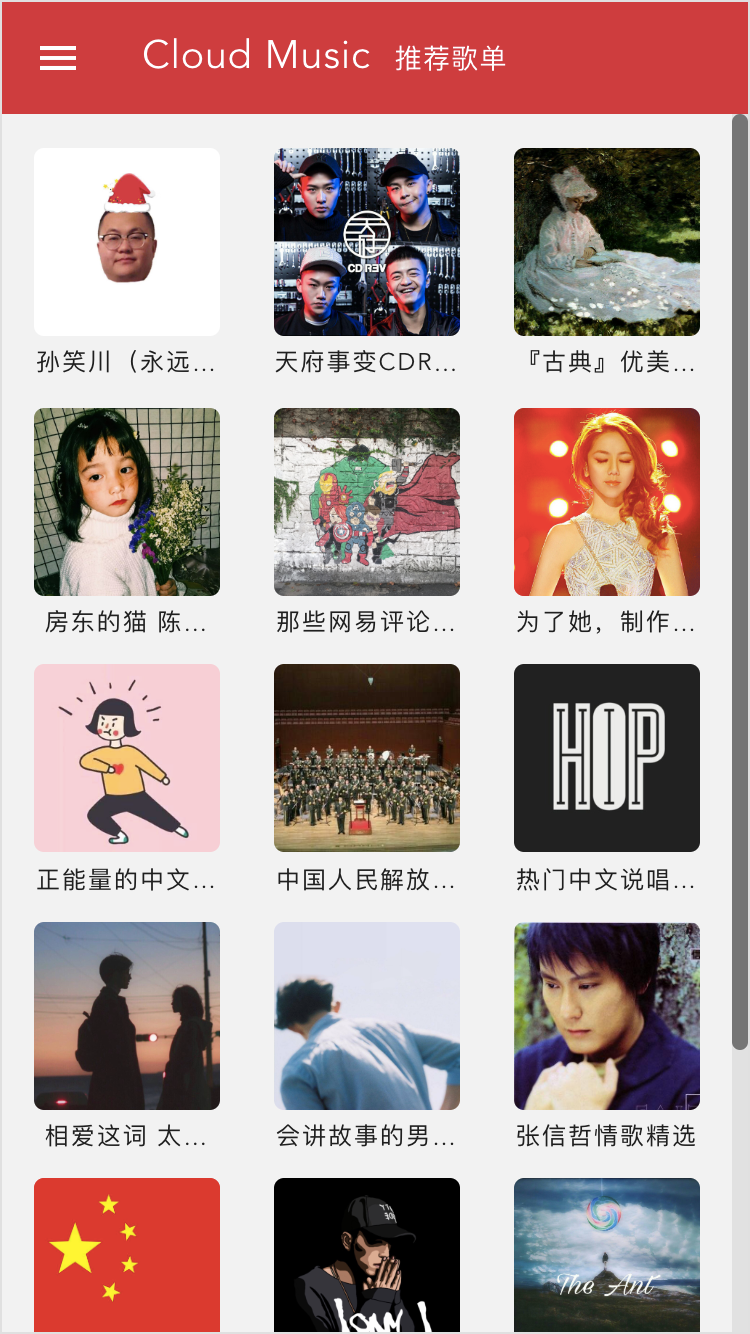
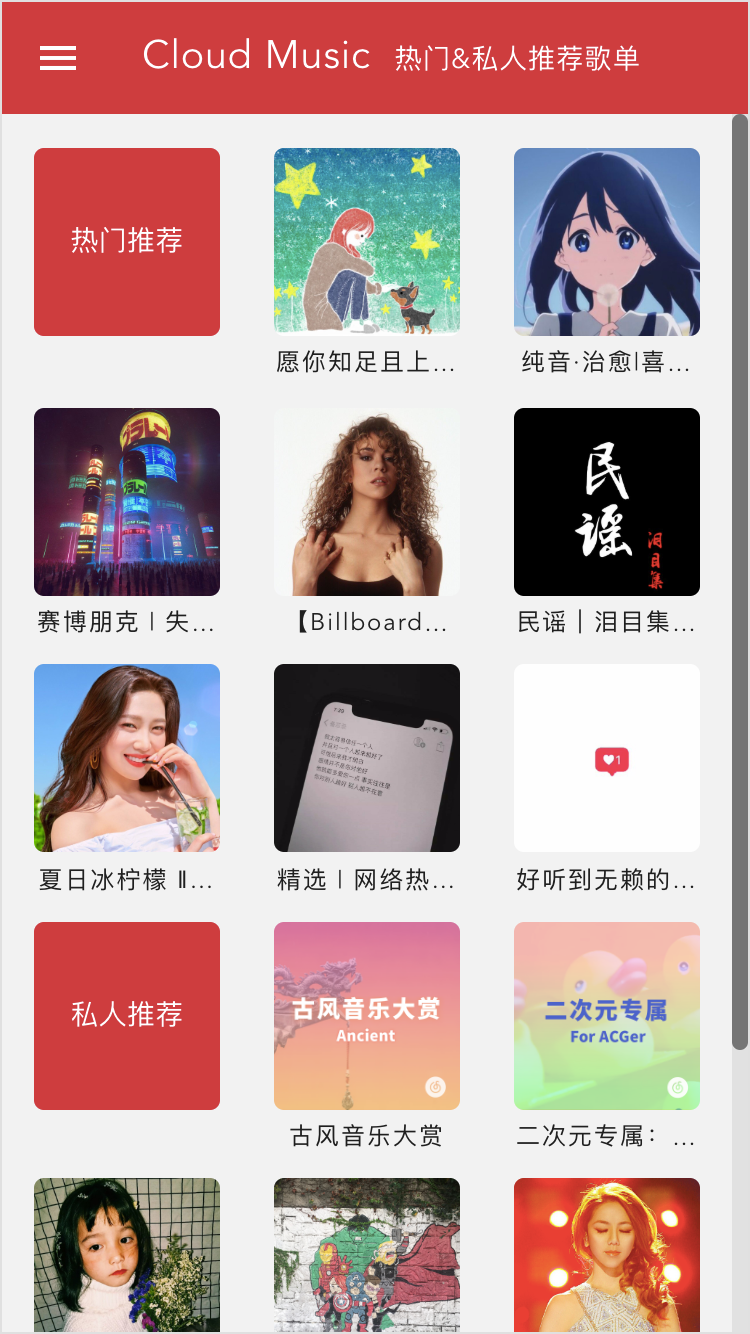
update home view

diff --git a/src/views/PlaylistDetail.vue b/src/views/PlaylistDetail.vue
@@ -1,29 +1,37 @@
 <template>
   <div class="playlist-detail">
     <div class="md-content">
-      <div class="md-content playlist-info">
-        <img
-          class="playlist-cover-img"
-          :src="picPath">
-        <div class="md-content playlist-info-text">
-          <span class="playlist-name">{{playlistName}}</span>
-          <span class="playlist-creator">{{playlistCreator}}</span>
-          <div class="md-content sub-comment-share">
-            <div class="md-content sub-comment-share-item">
-              <md-icon>mode_comment</md-icon>
-              <span>{{commentCount}}</span>
-            </div>
-            <div class="md-content sub-comment-share-item">
-              <md-icon>share</md-icon>
-              <span>{{shareCount}}</span>
-            </div>
-            <div class="md-content sub-comment-share-item">
-              <md-icon>favorite</md-icon>
-              <span>{{subscribedCount}}</span>
+      <div class="md-content playlist-info" style="flex-direction:column">
+        <div class="md-content" style="display:flex">
+          <img
+            class="playlist-cover-img"
+            :src="picPath">
+          <div class="md-content playlist-info-text">
+            <span class="playlist-name">{{playlistName}}</span>
+            <span class="playlist-creator">{{playlistCreator}}</span>
+            <div class="md-content sub-comment-share">
+              <div class="md-content sub-comment-share-item">
+                <md-icon>mode_comment</md-icon>
+                <span>{{commentCount}}</span>
+              </div>
+              <div class="md-content sub-comment-share-item">
+                <md-icon>share</md-icon>
+                <span>{{shareCount}}</span>
+              </div>
+              <div class="md-content sub-comment-share-item">
+                <md-icon>favorite</md-icon>
+                <span>{{subscribedCount}}</span>
+              </div>
             </div>
           </div>
         </div>
+        <div class="md-content div-playlist-description">
+          <span class="playlist-description">
+            {{description}}
+          </span>
+        </div>
       </div>
+      <md-divider style="margin-bottom:2vw"></md-divider>
       <div class="md-content playlist-content">
         <div v-for="song in songs" :key="song.id">
           <div>{{song.name}}</div>
@@ -36,14 +44,12 @@
 const imgPlaceholder = require('../assets/img_placeholder.png');
 
 const CheckCount = (count) => {
-  console.log(count);
   let rtn;
   if (count <= 1e5 - 1) {
     rtn = count;
   } else if (count > 1e5 - 1 && count <= 1e9 - 1) {
     rtn = `${parseInt(count / 1e4, 10)}万`;
   } else rtn = `${parseInt(count / 1e8, 10)}亿`;
-  console.log(rtn);
   return rtn;
 };
 
@@ -59,6 +65,7 @@ export default {
       songs: null,
       commentCount: null,
       subscribedCount: null,
+      description: null,
     };
   },
   created() {
@@ -66,12 +73,12 @@ export default {
     this.fetchPlaylistDetail(this.id)
       .then((res) => {
         this.songs = res.data.result.tracks;
-        console.log(this.songs);
         this.playlistName = res.data.result.name;
         this.playlistCreator = res.data.result.creator.nickname;
         this.commentCount = CheckCount(res.data.result.commentCount);
         this.shareCount = CheckCount(res.data.result.shareCount);
         this.subscribedCount = CheckCount(res.data.result.subscribedCount);
+        this.description = res.data.result.description;
         this.$store.dispatch('setPageTitle', this.playlistName);
         this.picPath = res.data.result.coverImgUrl;
       });
@@ -92,14 +99,15 @@ export default {
 <style lang="scss" scoped>
 .playlist-detail {
   background-color: #F2F2F2;
+  height: initial;
+  min-height: 100%;
 }
 .playlist-info {
   height: 60vw;
-  min-height: 240px;
+  min-height: 200px;
   max-height: 300px;
   display: flex;
   flex-direction: row;
-  // align-content: space-around;
 }
 .playlist-cover-img {
   width: 45vw;
@@ -108,7 +116,7 @@ export default {
   min-height: 75px;
   max-width: 200px;
   max-height: 200px;
-  margin: 5vw;
+  margin: 5vw 5vw 0 5vw;
   border-radius: 2vw;
 }
 .playlist-info-text {
@@ -148,6 +156,19 @@ export default {
   span {
     font-size: calc(10px + 1vw);
     display: block;
+    overflow: hidden;
+    text-overflow: ellipsis;
+    white-space: nowrap;
+  }
+}
+.div-playlist-description {
+  display: flex;
+  height: 100%;
+  padding-left: 5vw;
+  padding: 0 5vw 0 5vw;
+  justify-content: flex-start;
+  align-items: center;
+  span {
     overflow: hidden;
     text-overflow: ellipsis;
     white-space: nowrap;

diff --git a/src/views/RecommendPlaylist.vue b/src/views/RecommendPlaylist.vue
@@ -1,6 +1,28 @@
 <template>
   <div class="recommend-play-list">
     <div class="md-content parent-content">
+      <div class="md-content grid-tag" v-if="hotRecommendPlayLists">
+        <div>
+          <span>热门推荐</span>
+        </div>
+      </div>
+      <div class="md-content content-hot-recommend"
+        v-for="playlist in hotRecommendPlayLists"
+        :key="playlist.id"
+        @click="goToPlaylist(playlist.id)">
+        <img
+          class="playlist-img"
+          :src="defaultImg"
+          :onload="loadImg(playlist.coverImgUrl)"
+          :onerror="defaultImg"
+          :title="playlist.name">
+        <span class="playlist-name">{{playlist.name}}</span>
+      </div>
+      <div class="md-content grid-tag" v-if="recommendPlayLists">
+        <div>
+          <span>私人推荐</span>
+        </div>
+      </div>
       <div class="md-content content"
         v-for="playlist in recommendPlayLists"
         :key="playlist.id"
@@ -24,22 +46,42 @@ export default {
   data() {
     return {
       recommendPlayLists: null,
+      hotRecommendPlayLists: null,
       defaultImg: imgPlaceholder,
     };
   },
   created() {
-    this.axios({
-      method: 'GET',
-      url: 'https://music.163.com/api/discovery/recommend/resource',
-      withCredentials: true,
-    }).then((res) => {
-      this.recommendPlayLists = res.data.recommend;
-    });
+    this.getHotRecommend()
+      .then((res) => {
+        this.hotRecommendPlayLists = res.data.playlists;
+      });
+    this.getPersonalRecommend()
+      .then((res) => {
+        this.recommendPlayLists = res.data.recommend;
+      })
+      .catch(err => console.log(err));
   },
   methods: {
     loadImg(imgSrc) {
-      // console.log(imgSrc);
       return `this.onload=null;this.src="${imgSrc}";`;
+    },
+    getPersonalRecommend() {
+      return this.axios({
+        method: 'GET',
+        url: 'https://music.163.com/api/discovery/recommend/resource',
+        withCredentials: true,
+      });
+    },
+    getHotRecommend() {
+      return this.axios({
+        method: 'GET',
+        url: 'https://music.163.com/api/playlist/category/list',
+        params: {
+          cat: '全部',
+          limit: 8,
+          offset: 0,
+        },
+      });
     },
     goToPlaylist(e) {
       this.$router.push({ name: 'playlistDetail', query: { playlistId: e } });
@@ -48,10 +90,13 @@ export default {
 };
 </script>
 <style lang="scss" scoped>
-.recommend-play-list {
+.recommend-play-list{
   box-sizing: unset;
+  height: 100%;
+  background-color: #F2F2F2;
 }
 .parent-content {
+  // height: 100%;
   display: grid;
   padding-top: 2vw;
   padding-bottom: 8vw;
@@ -64,7 +109,7 @@ export default {
   grid-column-gap: 2vw;
   background-color: #F2F2F2;
 }
-.content {
+.content, .content-hot-recommend, .grid-tag{
   width: 25vw;
   height: 25vw;
   min-width: 75px;
@@ -92,5 +137,18 @@ export default {
   min-height: 75px;
   max-width: 200px;
   max-height: 200px;
+}
+.grid-tag {
+  div {
+    display: flex;
+    height: 100%;
+    width: 100%;
+    background-color: rgb(206, 61, 62);
+    border-radius: 5px;
+    text-align: center;
+    justify-content: center;
+    align-items: center;
+    color: #FFF;
+  }
 }
 </style>

diff --git a/src/App.vue b/src/App.vue
@@ -58,7 +58,6 @@ export default {
     return {
       showNavigation: false,
       showSidepanel: false,
-      // pageTitle: 'Page Title',
     };
   },
   created() {
@@ -73,7 +72,6 @@ export default {
     $route: {
       handler(to) {
         this.$store.dispatch('setPageTitle', to.meta.title);
-        // this.pageTitle = to.meta.title;
       },
       deep: true,
     },
@@ -95,14 +93,18 @@ export default {
   color: #2c3e50;
   // height: 100%;
 }
+// scrollbar style
+// #app /deep/ .md-scrollbar::-webkit-scrollbar {
+//   width: 0px;
+// }
 .md-app {
-  // min-height: 350px;
   height: 100vh;
   border: 1px solid rgba(#000, 0.12);
 }
 .md-app-content {
   height: fit-content;
   padding: 0 !important;
+  background-color: #F2F2F2;
 }
 .md-toolbar.md-theme-default.md-primary {
   background-color: rgb(206, 61, 62) !important;

diff --git a/src/main.js b/src/main.js
@@ -7,6 +7,7 @@ import {
   MdToolbar,
   MdIcon,
   MdList,
+  MdDivider,
 } from 'vue-material/dist/components';
 import axios from 'axios';
 import App from './App.vue';
@@ -24,7 +25,8 @@ Vue.use(MdButton)
   .use(MdDrawer)
   .use(MdList)
   .use(MdToolbar)
-  .use(MdIcon);
+  .use(MdIcon)
+  .use(MdDivider);
 const corsAxios = axios.create({
   headers: {
     'Access-Control-Allow-Methods': 'GET,POST',

diff --git a/src/router.js b/src/router.js
@@ -14,7 +14,7 @@ export default new Router({
       name: 'recommandPlaylist',
       component: RecommandPlaylist,
       meta: {
-        title: '推荐歌单',
+        title: '热门&私人推荐歌单',
         keepAlive: true,
       },
       // component: NeteaseMusicComment,
